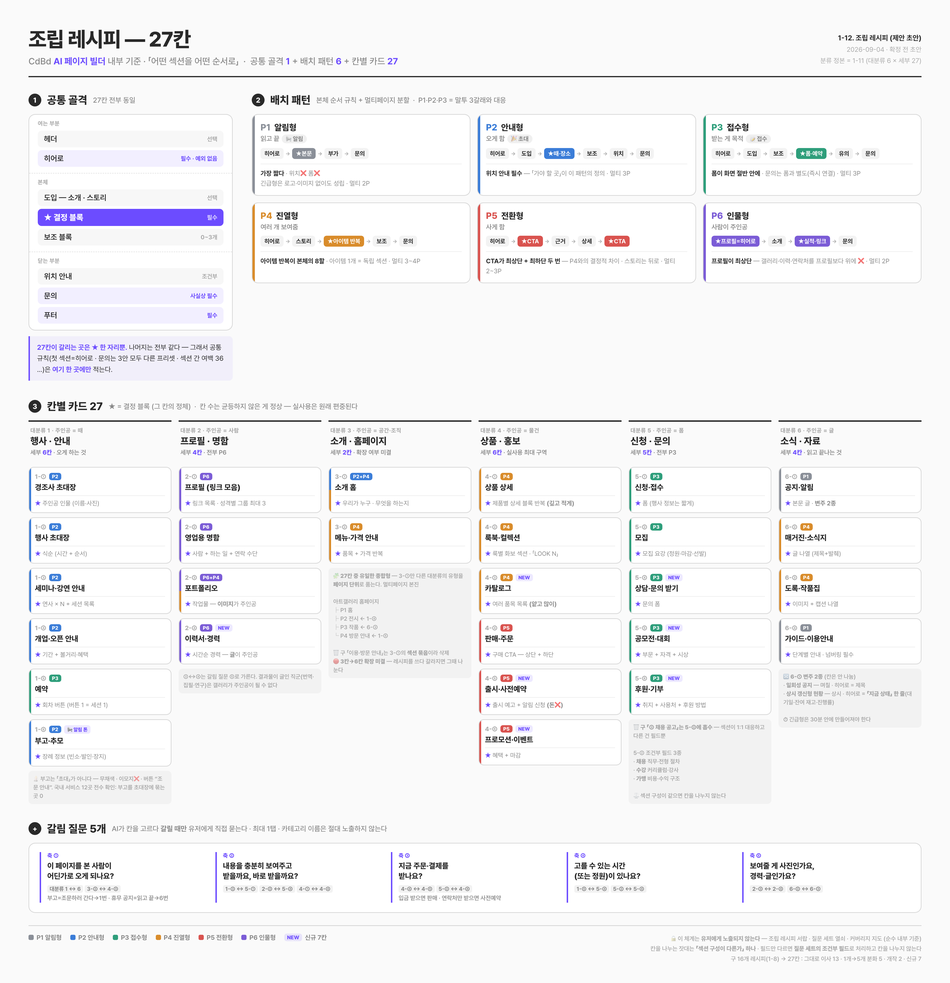
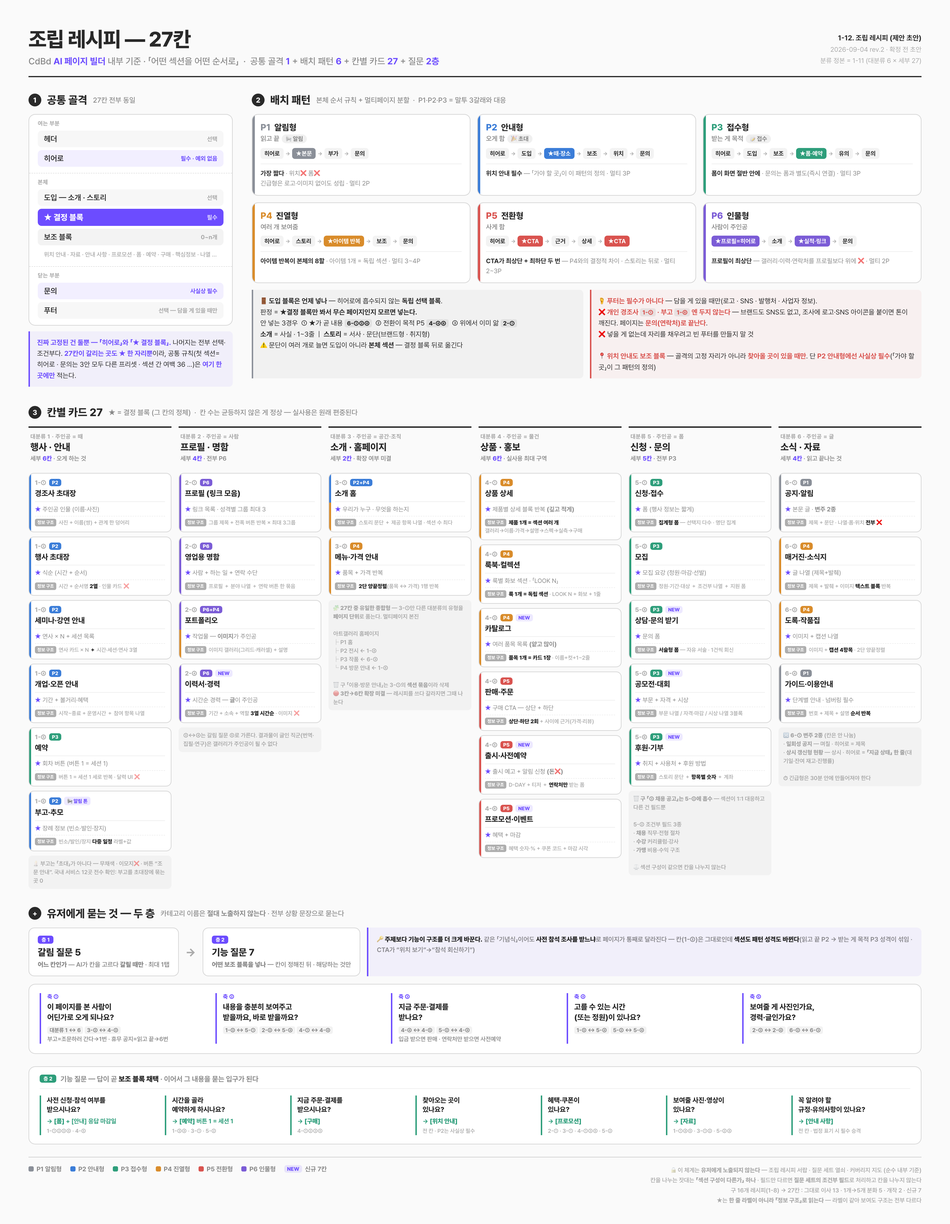
vault backup: 2026-09-04 11:03:52

diff --git a/1. 작업 가이드/.data/1-12-recipe-diagram.html b/1. 작업 가이드/.data/1-12-recipe-diagram.html
@@ -40,6 +40,8 @@ body{background:var(--bg);color:var(--ink);
 .sk-r .tag{font-size:12.5px;font-weight:700;color:var(--mut2)}
 .sk-r.req{background:rgba(108,76,255,.09)}
 .sk-r.req .tag{color:var(--acc)}
+.sk-r.sub{background:rgba(41,41,41,.055)}
+.subs{font-size:12.5px;color:var(--mut2);font-weight:600;line-height:1.5;padding:4px 13px 2px}
 .sk-r.star{background:var(--acc);color:#fff;font-weight:800;font-size:17px}
 .sk-r.star .tag{color:rgba(255,255,255,.8)}
 .callout{margin-top:12px;padding:12px 15px;border-left:3px solid var(--acc);
@@ -63,6 +65,8 @@ body{background:var(--bg);color:var(--ink);
 .pat-f{font-size:13.5px;color:var(--mut);line-height:1.55;border-top:1px solid var(--line);padding-top:9px}
 .pat-f b{color:var(--ink)}
 
+.rules2{display:grid;grid-template-columns:1fr 1fr;gap:14px}
+.callout code{background:rgba(41,41,41,.08);padding:1px 5px;border-radius:4px;font-family:inherit;font-weight:800;font-size:12.5px}
 /* ── row B : 27 cards ── */
 .cols{display:grid;grid-template-columns:repeat(6,1fr);gap:15px;margin-bottom:38px}
 .col-h{border-top:3px solid var(--ink);padding:11px 4px 12px;margin-bottom:11px}
@@ -83,6 +87,9 @@ body{background:var(--bg);color:var(--ink);
 .cd-t{font-size:16px;font-weight:800;line-height:1.3;margin-bottom:6px}
 .cd-b{font-size:13px;line-height:1.45;color:var(--mut);border-top:1px solid var(--line);padding-top:6px}
 .cd-b .st{color:var(--acc);font-weight:800}
+.cd-s{font-size:11.5px;line-height:1.45;color:var(--mut2);margin-top:5px;padding-top:5px;border-top:1px dashed var(--line);font-weight:600}
+.cd-s .lbl{display:inline-block;font-size:9.5px;font-weight:800;color:#fff;background:var(--mut2);padding:1px 5px;border-radius:4px;margin-right:5px;vertical-align:1px}
+.cd-s b{color:var(--ink)}
 .note{font-size:12px;color:var(--mut2);line-height:1.5;padding:8px 10px;
   background:rgba(41,41,41,.04);border-radius:8px;font-weight:600}
 
@@ -95,6 +102,26 @@ body{background:var(--bg);color:var(--ink);
 .q-d{font-size:12.5px;color:var(--mut);line-height:1.55;font-weight:600}
 .q-d code{background:rgba(41,41,41,.06);padding:1px 5px;border-radius:4px;font-size:11.5px;font-family:inherit;font-weight:700}
 
+
+.layers{display:flex;align-items:stretch;gap:14px;margin-bottom:16px}
+.ly{border:1.5px solid var(--line2);border-radius:12px;background:#fff;padding:13px 18px;min-width:280px}
+.ly-n{font-size:11px;font-weight:800;color:#fff;background:var(--acc);display:inline-block;padding:2px 8px;border-radius:5px;margin-bottom:6px}
+.ly-t{font-size:20px;font-weight:800;margin-bottom:4px}
+.ly-d{font-size:13.5px;color:var(--mut);font-weight:600;line-height:1.5}
+.ly-ar{display:flex;align-items:center;font-size:24px;color:var(--mut2);font-weight:800}
+.ly-note{flex:1;border-left:3px solid var(--acc);background:rgba(108,76,255,.06);border-radius:0 10px 10px 0;
+  padding:14px 18px;font-size:13.5px;line-height:1.65;color:var(--mut);font-weight:600}
+.ly-note b{color:var(--ink)}
+.qwrap.fn{padding:16px 22px 18px;margin-bottom:26px}
+.fn-h{font-size:15px;font-weight:700;color:var(--mut);margin-bottom:14px;padding-bottom:11px;border-bottom:1px solid var(--line)}
+.fn-h b{color:var(--ink)}
+.fn-b{display:inline-block;font-size:11px;font-weight:800;color:#fff;background:var(--p3);padding:2px 8px;border-radius:5px;margin-right:9px;vertical-align:2px}
+.fns{display:grid;grid-template-columns:repeat(7,1fr);gap:13px}
+.fq{border-left:3px solid var(--p3);padding-left:12px}
+.fq-t{font-size:14.5px;font-weight:800;line-height:1.35;margin-bottom:7px}
+.fq-s{font-size:13px;font-weight:700;color:var(--p3);margin-bottom:5px}
+.fq-s b{color:var(--p3)}
+.fq-c{font-size:11.5px;color:var(--mut2);font-weight:600;line-height:1.45}
 /* ── footer ── */
 .foot{display:flex;justify-content:space-between;align-items:flex-start;
   border-top:1.5px solid var(--line2);padding-top:16px;gap:40px}
@@ -107,9 +134,9 @@ body{background:var(--bg);color:var(--ink);
 <div class="top">
   <div>
     <div class="t1">조립 레시피 — 27칸</div>
-    <div class="t2">CdBd <b>AI 페이지 빌더</b> 내부 기준 · 「어떤 섹션을 어떤 순서로」 &nbsp;·&nbsp; 공통 골격 <b>1</b> + 배치 패턴 <b>6</b> + 칸별 카드 <b>27</b></div>
+    <div class="t2">CdBd <b>AI 페이지 빌더</b> 내부 기준 · 「어떤 섹션을 어떤 순서로」 &nbsp;·&nbsp; 공통 골격 <b>1</b> + 배치 패턴 <b>6</b> + 칸별 카드 <b>27</b> + 질문 <b>2층</b></div>
   </div>
-  <div class="meta"><b>1-12. 조립 레시피 (제안 초안)</b><br>2026-09-04 · 확정 전 초안<br>분류 정본 = 1-11 (대분류 6 × 세부 27)</div>
+  <div class="meta"><b>1-12. 조립 레시피 (제안 초안)</b><br>2026-09-04 rev.2 · 확정 전 초안<br>분류 정본 = 1-11 (대분류 6 × 세부 27)</div>
 </div>
 
 <div class="rowA">
@@ -123,14 +150,15 @@ body{background:var(--bg);color:var(--ink);
       <div class="sk-g"><div class="sk-gt">본체</div>
         <div class="sk-r">도입 — 소개 · 스토리<span class="tag">선택</span></div>
         <div class="sk-r star">★ 결정 블록<span class="tag">필수</span></div>
-        <div class="sk-r">보조 블록<span class="tag">0~3개</span></div></div>
+        <div class="sk-r sub">보조 블록<span class="tag">0~n개</span></div>
+        <div class="subs">위치 안내 · 자료 · 안내 사항 · 프로모션 · 폼 · 예약 · 구매 · 핵심정보 · 나열 …</div></div>
       <div class="sk-g"><div class="sk-gt">닫는 부분</div>
-        <div class="sk-r">위치 안내<span class="tag">조건부</span></div>
         <div class="sk-r req">문의<span class="tag">사실상 필수</span></div>
-        <div class="sk-r req">푸터<span class="tag">필수</span></div></div>
+        <div class="sk-r">푸터<span class="tag">선택 — 담을 게 있을 때만</span></div></div>
     </div>
-    <div class="callout"><b>27칸이 갈리는 곳은 ★ 한 자리뿐.</b> 나머지는 전부 같다 —
-      그래서 공통 규칙(첫 섹션=히어로 · 문의는 3안 모두 다른 프리셋 · 섹션 간 여백 36 …)은 <b>여기 한 곳에만</b> 적는다.</div>
+    <div class="callout"><b>진짜 고정된 건 둘뿐 — 「히어로」와 「★ 결정 블록」.</b>
+      나머지는 전부 선택·조건부다. <b>27칸이 갈리는 곳도 ★ 한 자리뿐</b>이라,
+      공통 규칙(첫 섹션=히어로 · 문의는 3안 모두 다른 프리셋 · 섹션 간 여백 36 …)은 <b>여기 한 곳에만</b> 적는다.</div>
   </div>
 
   <div>
@@ -168,6 +196,22 @@ body{background:var(--bg);color:var(--ink);
         <div class="flow"><span class="fx k">★프로필=히어로</span><span class="ar">→</span><span class="fx">소개</span><span class="ar">→</span><span class="fx k">★실적·링크</span><span class="ar">→</span><span class="fx">문의</span></div>
         <div class="pat-f"><b>프로필이 최상단</b> — 갤러리·이력·연락처를 프로필보다 위에 ❌ · 멀티 2P</div></div>
     </div>
+    <div class="rules2">
+      <div class="callout" style="margin-top:14px;border-color:#8A8F98;background:rgba(41,41,41,.045)">
+        <b style="color:#292929">🚪 도입 블록은 언제 넣나</b> — 히어로에 흡수되지 않는 <b style="color:#292929">독립 선택 블록</b>.<br>
+        판정 = <b style="color:#292929">★결정 블록만 봐서 무슨 페이지인지 모르면 넣는다.</b><br>
+        안 넣는 3경우 &nbsp;① ★가 곧 내용 <code>6-①②④</code> &nbsp;② 전환이 목적 P5 <code>4-④⑥</code> &nbsp;③ 위에서 이미 앎 <code>2-①</code><br>
+        <b style="color:#292929">소개</b> = 사실 · 1~3줄 &nbsp;|&nbsp; <b style="color:#292929">스토리</b> = 서사 · 문단(브랜드형 · 취지형)<br>
+        ⚠ 문단이 여러 개로 늘면 도입이 아니라 <b style="color:#292929">본체 섹션</b> — 결정 블록 뒤로 옮긴다</div>
+      <div class="callout" style="margin-top:14px;border-color:#D9534F;background:rgba(217,83,79,.06)">
+        <b style="color:#D9534F">🦶 푸터는 필수가 아니다</b> — 담을 게 있을 때만(로고 · SNS · 발행처 · 사업자 정보).<br>
+        ❌ <b style="color:#D9534F">개인 경조사 <code>1-①</code> · 부고 <code>1-⑥</code> 엔 두지 않는다</b> — 브랜드도 SNS도 없고,
+        조사에 로고·SNS 아이콘을 붙이면 톤이 깨진다. 페이지는 <b style="color:#D9534F">문의(연락처)로 끝난다</b>.<br>
+        ❌ 넣을 게 없는데 자리를 채우려고 빈 푸터를 만들지 말 것<br>
+        <br>
+        <b style="color:#D9534F">📍 위치 안내도 보조 블록</b> — 골격의 고정 자리가 아니라 <b style="color:#D9534F">찾아올 곳이 있을 때만</b>.
+        단 <b style="color:#D9534F">P2 안내형에선 사실상 필수</b>(「가야 할 곳」이 그 패턴의 정의)</div>
+    </div>
   </div>
 </div>
 
@@ -179,17 +223,17 @@ body{background:var(--bg);color:var(--ink);
     <div class="col-h"><div class="col-n">대분류 1 · 주인공 = 때</div><div class="col-t">행사 · 안내</div>
       <div class="col-s">세부 <span class="cnt">6칸</span> · 오게 하는 것</div></div>
     <div class="card" style="--c:var(--p2)"><div class="cd-h"><span class="cd-i">1-①</span><span class="cd-p">P2</span></div>
-      <div class="cd-t">경조사 초대장</div><div class="cd-b"><span class="st">★</span> 주인공 인물 (이름·사진)</div></div>
+      <div class="cd-t">경조사 초대장</div><div class="cd-b"><span class="st">★</span> 주인공 인물 (이름·사진)<div class="cd-s"><span class="lbl">정보 구조</span>사진 + 이름(쌍) + 관계 한 덩어리</div></div></div>
     <div class="card" style="--c:var(--p2)"><div class="cd-h"><span class="cd-i">1-②</span><span class="cd-p">P2</span></div>
-      <div class="cd-t">행사 초대장</div><div class="cd-b"><span class="st">★</span> 식순 (시간 + 순서)</div></div>
+      <div class="cd-t">행사 초대장</div><div class="cd-b"><span class="st">★</span> 식순 (시간 + 순서)<div class="cd-s"><span class="lbl">정보 구조</span>시간 + 순서명 <b>2열</b> · 인물 카드 ❌</div></div></div>
     <div class="card" style="--c:var(--p2)"><div class="cd-h"><span class="cd-i">1-③</span><span class="cd-p">P2</span></div>
-      <div class="cd-t">세미나·강연 안내</div><div class="cd-b"><span class="st">★</span> 연사 × N + 세션 목록</div></div>
+      <div class="cd-t">세미나·강연 안내</div><div class="cd-b"><span class="st">★</span> 연사 × N + 세션 목록<div class="cd-s"><span class="lbl">정보 구조</span>연사 카드 × N <b>＋</b> 시간·세션·연사 3열</div></div></div>
     <div class="card" style="--c:var(--p2)"><div class="cd-h"><span class="cd-i">1-④</span><span class="cd-p">P2</span></div>
-      <div class="cd-t">개업·오픈 안내</div><div class="cd-b"><span class="st">★</span> 기간 + 볼거리·혜택</div></div>
+      <div class="cd-t">개업·오픈 안내</div><div class="cd-b"><span class="st">★</span> 기간 + 볼거리·혜택<div class="cd-s"><span class="lbl">정보 구조</span>시작~종료 + 운영시간 ＋ 참여 항목 나열</div></div></div>
     <div class="card" style="--c:var(--p3)"><div class="cd-h"><span class="cd-i">1-⑤</span><span class="cd-p">P3</span></div>
-      <div class="cd-t">예약</div><div class="cd-b"><span class="st">★</span> 회차 버튼 (버튼 1 = 세션 1)</div></div>
+      <div class="cd-t">예약</div><div class="cd-b"><span class="st">★</span> 회차 버튼 (버튼 1 = 세션 1)<div class="cd-s"><span class="lbl">정보 구조</span>버튼 1 = 세션 1 세로 반복 · 달력 UI ❌</div></div></div>
     <div class="card" style="--c:var(--p2)"><div class="cd-h"><span class="cd-i">1-⑥</span><span class="cd-p">P2</span><span class="cd-new">📢 알림 톤</span></div>
-      <div class="cd-t">부고·추모</div><div class="cd-b"><span class="st">★</span> 장례 정보 (빈소·발인·장지)</div></div>
+      <div class="cd-t">부고·추모</div><div class="cd-b"><span class="st">★</span> 장례 정보 (빈소·발인·장지)<div class="cd-s"><span class="lbl">정보 구조</span>빈소/발인/장지 <b>다중 일정</b> 라벨+값</div></div></div>
     <div class="note">🕯 부고는 「초대」가 아니다 — 무채색 · 이모지❌ · 버튼 “조문 안내”. 국내 서비스 12곳 전수 확인: 부고를 초대장에 묶는 곳 0</div>
   </div>
 
@@ -197,13 +241,13 @@ body{background:var(--bg);color:var(--ink);
     <div class="col-h"><div class="col-n">대분류 2 · 주인공 = 사람</div><div class="col-t">프로필 · 명함</div>
       <div class="col-s">세부 <span class="cnt">4칸</span> · 전부 P6</div></div>
     <div class="card" style="--c:var(--p6)"><div class="cd-h"><span class="cd-i">2-①</span><span class="cd-p">P6</span></div>
-      <div class="cd-t">프로필 (링크 모음)</div><div class="cd-b"><span class="st">★</span> 링크 목록 · 성격별 그룹 최대 3</div></div>
+      <div class="cd-t">프로필 (링크 모음)</div><div class="cd-b"><span class="st">★</span> 링크 목록 · 성격별 그룹 최대 3<div class="cd-s"><span class="lbl">정보 구조</span>그룹 제목 + 전폭 버튼 반복 × 최대 3그룹</div></div></div>
     <div class="card" style="--c:var(--p6)"><div class="cd-h"><span class="cd-i">2-②</span><span class="cd-p">P6</span></div>
-      <div class="cd-t">영업용 명함</div><div class="cd-b"><span class="st">★</span> 사람 + 하는 일 + 연락 수단</div></div>
+      <div class="cd-t">영업용 명함</div><div class="cd-b"><span class="st">★</span> 사람 + 하는 일 + 연락 수단<div class="cd-s"><span class="lbl">정보 구조</span>프로필 ＋ 분야 나열 ＋ 연락 버튼 한 묶음</div></div></div>
     <div class="card dual" style="--c:var(--p6);--c2:var(--p4)"><div class="cd-h"><span class="cd-i">2-③</span><span class="cd-p">P6+P4</span></div>
-      <div class="cd-t">포트폴리오</div><div class="cd-b"><span class="st">★</span> 작업물 — <b>이미지</b>가 주인공</div></div>
+      <div class="cd-t">포트폴리오</div><div class="cd-b"><span class="st">★</span> 작업물 — <b>이미지</b>가 주인공<div class="cd-s"><span class="lbl">정보 구조</span>이미지 갤러리(그리드·캐러셀) + 설명</div></div></div>
     <div class="card" style="--c:var(--p6)"><div class="cd-h"><span class="cd-i">2-④</span><span class="cd-p">P6</span><span class="cd-new">NEW</span></div>
-      <div class="cd-t">이력서·경력</div><div class="cd-b"><span class="st">★</span> 시간순 경력 — <b>글</b>이 주인공</div></div>
+      <div class="cd-t">이력서·경력</div><div class="cd-b"><span class="st">★</span> 시간순 경력 — <b>글</b>이 주인공<div class="cd-s"><span class="lbl">정보 구조</span>기간 + 소속 + 역할 <b>3열 시간순</b> · 이미지 ❌</div></div></div>
     <div class="note">③↔④는 갈림 질문 ⑤로 가른다. 결과물이 글인 직군(번역·집필·연구)은 갤러리가 주인공이 될 수 없다</div>
   </div>
 
@@ -211,9 +255,9 @@ body{background:var(--bg);color:var(--ink);
     <div class="col-h"><div class="col-n">대분류 3 · 주인공 = 공간·조직</div><div class="col-t">소개 · 홈페이지</div>
       <div class="col-s">세부 <span class="cnt">2칸</span> · 확장 여부 미결</div></div>
     <div class="card dual" style="--c:var(--p2);--c2:var(--p4)"><div class="cd-h"><span class="cd-i">3-①</span><span class="cd-p">P2+P4</span></div>
-      <div class="cd-t">소개 홈</div><div class="cd-b"><span class="st">★</span> 우리가 누구 · 무엇을 하는지</div></div>
+      <div class="cd-t">소개 홈</div><div class="cd-b"><span class="st">★</span> 우리가 누구 · 무엇을 하는지<div class="cd-s"><span class="lbl">정보 구조</span>스토리 문단 ＋ 제공 항목 나열 · 섹션 수 최다</div></div></div>
     <div class="card" style="--c:var(--p4)"><div class="cd-h"><span class="cd-i">3-②</span><span class="cd-p">P4</span></div>
-      <div class="cd-t">메뉴·가격 안내</div><div class="cd-b"><span class="st">★</span> 품목 + 가격 반복</div></div>
+      <div class="cd-t">메뉴·가격 안내</div><div class="cd-b"><span class="st">★</span> 품목 + 가격 반복<div class="cd-s"><span class="lbl">정보 구조</span><b>2단 양끝정렬</b>(품목 ↔ 가격) 1행 반복</div></div></div>
     <div class="note">🧩 <b>27칸 중 유일한 종합형</b> — 3-①만 다른 대분류의 유형을 <b>페이지 단위</b>로 품는다. 멀티페이지 본진<br><br>
       아트갤러리 홈페이지<br>├ P1 홈<br>├ P2 전시 ← 1-④<br>├ P3 작품 ← 6-③<br>└ P4 방문 안내 ← 1-⑤<br><br>
       🗑 구 「이용·방문 안내」는 3-①의 <b>섹션 묶음</b>이라 삭제<br>
@@ -224,32 +268,32 @@ body{background:var(--bg);color:var(--ink);
     <div class="col-h"><div class="col-n">대분류 4 · 주인공 = 물건</div><div class="col-t">상품 · 홍보</div>
       <div class="col-s">세부 <span class="cnt">6칸</span> · 실사용 최대 구역</div></div>
     <div class="card" style="--c:var(--p4)"><div class="cd-h"><span class="cd-i">4-①</span><span class="cd-p">P4</span></div>
-      <div class="cd-t">상품 상세</div><div class="cd-b"><span class="st">★</span> 제품별 상세 블록 반복 <b>(깊고 적게)</b></div></div>
+      <div class="cd-t">상품 상세</div><div class="cd-b"><span class="st">★</span> 제품별 상세 블록 반복 <b>(깊고 적게)</b><div class="cd-s"><span class="lbl">정보 구조</span><b>제품 1개 = 섹션 여러 개</b><br>갤러리→이름·가격→설명→스펙→실측→구매</div></div></div>
     <div class="card" style="--c:var(--p4)"><div class="cd-h"><span class="cd-i">4-②</span><span class="cd-p">P4</span></div>
-      <div class="cd-t">룩북·컬렉션</div><div class="cd-b"><span class="st">★</span> 룩별 화보 섹션 · 「LOOK N」</div></div>
+      <div class="cd-t">룩북·컬렉션</div><div class="cd-b"><span class="st">★</span> 룩별 화보 섹션 · 「LOOK N」<div class="cd-s"><span class="lbl">정보 구조</span><b>룩 1개 = 독립 섹션</b> · LOOK N + 화보 + 1줄</div></div></div>
     <div class="card" style="--c:var(--p4)"><div class="cd-h"><span class="cd-i">4-③</span><span class="cd-p">P4</span><span class="cd-new">NEW</span></div>
-      <div class="cd-t">카탈로그</div><div class="cd-b"><span class="st">★</span> 여러 품목 목록 <b>(얕고 많이)</b></div></div>
+      <div class="cd-t">카탈로그</div><div class="cd-b"><span class="st">★</span> 여러 품목 목록 <b>(얕고 많이)</b><div class="cd-s"><span class="lbl">정보 구조</span><b>품목 1개 = 카드 1장</b> · 이름+컷+1~2줄</div></div></div>
     <div class="card" style="--c:var(--p5)"><div class="cd-h"><span class="cd-i">4-④</span><span class="cd-p">P5</span></div>
-      <div class="cd-t">판매·주문</div><div class="cd-b"><span class="st">★</span> 구매 CTA — 상단 + 하단</div></div>
+      <div class="cd-t">판매·주문</div><div class="cd-b"><span class="st">★</span> 구매 CTA — 상단 + 하단<div class="cd-s"><span class="lbl">정보 구조</span><b>상단·하단 2회</b> + 사이에 근거(가격·리뷰)</div></div></div>
     <div class="card" style="--c:var(--p5)"><div class="cd-h"><span class="cd-i">4-⑤</span><span class="cd-p">P5</span><span class="cd-new">NEW</span></div>
-      <div class="cd-t">출시·사전예약</div><div class="cd-b"><span class="st">★</span> 출시 예고 + 알림 신청 <b>(돈❌)</b></div></div>
+      <div class="cd-t">출시·사전예약</div><div class="cd-b"><span class="st">★</span> 출시 예고 + 알림 신청 <b>(돈❌)</b><div class="cd-s"><span class="lbl">정보 구조</span>D-DAY + 티저 ＋ <b>연락처만</b> 받는 폼</div></div></div>
     <div class="card" style="--c:var(--p5)"><div class="cd-h"><span class="cd-i">4-⑥</span><span class="cd-p">P5</span><span class="cd-new">NEW</span></div>
-      <div class="cd-t">프로모션·이벤트</div><div class="cd-b"><span class="st">★</span> 혜택 + 마감</div></div>
+      <div class="cd-t">프로모션·이벤트</div><div class="cd-b"><span class="st">★</span> 혜택 + 마감<div class="cd-s"><span class="lbl">정보 구조</span>혜택 숫자·% + 쿠폰 코드 + 마감 시각</div></div></div>
   </div>
 
   <div>
     <div class="col-h"><div class="col-n">대분류 5 · 주인공 = 폼</div><div class="col-t">신청 · 문의</div>
       <div class="col-s">세부 <span class="cnt">5칸</span> · 전부 P3</div></div>
     <div class="card" style="--c:var(--p3)"><div class="cd-h"><span class="cd-i">5-①</span><span class="cd-p">P3</span></div>
-      <div class="cd-t">신청·접수</div><div class="cd-b"><span class="st">★</span> 폼 (행사 정보는 짧게)</div></div>
+      <div class="cd-t">신청·접수</div><div class="cd-b"><span class="st">★</span> 폼 (행사 정보는 짧게)<div class="cd-s"><span class="lbl">정보 구조</span><b>집계형 폼</b> — 선택지 다수 · 명단 집계</div></div></div>
     <div class="card" style="--c:var(--p3)"><div class="cd-h"><span class="cd-i">5-②</span><span class="cd-p">P3</span></div>
-      <div class="cd-t">모집</div><div class="cd-b"><span class="st">★</span> 모집 요강 (정원·마감·선발)</div></div>
+      <div class="cd-t">모집</div><div class="cd-b"><span class="st">★</span> 모집 요강 (정원·마감·선발)<div class="cd-s"><span class="lbl">정보 구조</span>정원·기간·대상 ＋ 조건부 나열 ＋ 지원 폼</div></div></div>
     <div class="card" style="--c:var(--p3)"><div class="cd-h"><span class="cd-i">5-④</span><span class="cd-p">P3</span><span class="cd-new">NEW</span></div>
-      <div class="cd-t">상담·문의 받기</div><div class="cd-b"><span class="st">★</span> 문의 폼</div></div>
+      <div class="cd-t">상담·문의 받기</div><div class="cd-b"><span class="st">★</span> 문의 폼<div class="cd-s"><span class="lbl">정보 구조</span><b>서술형 폼</b> — 자유 서술 · 1건씩 회신</div></div></div>
     <div class="card" style="--c:var(--p3)"><div class="cd-h"><span class="cd-i">5-⑤</span><span class="cd-p">P3</span><span class="cd-new">NEW</span></div>
-      <div class="cd-t">공모전·대회</div><div class="cd-b"><span class="st">★</span> 부문 + 자격 + 시상</div></div>
+      <div class="cd-t">공모전·대회</div><div class="cd-b"><span class="st">★</span> 부문 + 자격 + 시상<div class="cd-s"><span class="lbl">정보 구조</span>부문 나열 / 자격·마감 / 시상 나열 3블록</div></div></div>
     <div class="card" style="--c:var(--p3)"><div class="cd-h"><span class="cd-i">5-⑥</span><span class="cd-p">P3</span><span class="cd-new">NEW</span></div>
-      <div class="cd-t">후원·기부</div><div class="cd-b"><span class="st">★</span> 취지 + 사용처 + 후원 방법</div></div>
+      <div class="cd-t">후원·기부</div><div class="cd-b"><span class="st">★</span> 취지 + 사용처 + 후원 방법<div class="cd-s"><span class="lbl">정보 구조</span>스토리 문단 ＋ <b>항목별 숫자</b> ＋ 계좌</div></div></div>
     <div class="note">🗑 <b>구 「③ 채용 공고」는 5-②에 흡수</b> — 섹션이 1:1 대응하고 다른 건 필드뿐<br><br>
       5-② 조건부 필드 3종<br>· <b>채용</b> 직무·전형 절차<br>· <b>수강</b> 커리큘럼·강사<br>· <b>가맹</b> 비용·수익 구조<br><br>
       ⚖ 섹션 구성이 같으면 칸을 나누지 않는다</div>
@@ -259,13 +303,13 @@ body{background:var(--bg);color:var(--ink);
     <div class="col-h"><div class="col-n">대분류 6 · 주인공 = 글</div><div class="col-t">소식 · 자료</div>
       <div class="col-s">세부 <span class="cnt">4칸</span> · 읽고 끝나는 것</div></div>
     <div class="card" style="--c:var(--p1)"><div class="cd-h"><span class="cd-i">6-①</span><span class="cd-p">P1</span></div>
-      <div class="cd-t">공지·알림</div><div class="cd-b"><span class="st">★</span> 본문 글 · <b>변주 2종</b></div></div>
+      <div class="cd-t">공지·알림</div><div class="cd-b"><span class="st">★</span> 본문 글 · <b>변주 2종</b><div class="cd-s"><span class="lbl">정보 구조</span>제목 + 문단 · 나열·폼·위치 <b>전부 ❌</b></div></div></div>
     <div class="card" style="--c:var(--p4)"><div class="cd-h"><span class="cd-i">6-②</span><span class="cd-p">P4</span></div>
-      <div class="cd-t">매거진·소식지</div><div class="cd-b"><span class="st">★</span> 글 나열 (제목+발췌)</div></div>
+      <div class="cd-t">매거진·소식지</div><div class="cd-b"><span class="st">★</span> 글 나열 (제목+발췌)<div class="cd-s"><span class="lbl">정보 구조</span>제목 + 발췌 + 이미지 <b>텍스트 블록</b> 반복</div></div></div>
     <div class="card" style="--c:var(--p4)"><div class="cd-h"><span class="cd-i">6-③</span><span class="cd-p">P4</span></div>
-      <div class="cd-t">도록·작품집</div><div class="cd-b"><span class="st">★</span> 이미지 + 캡션 나열</div></div>
+      <div class="cd-t">도록·작품집</div><div class="cd-b"><span class="st">★</span> 이미지 + 캡션 나열<div class="cd-s"><span class="lbl">정보 구조</span>이미지 + <b>캡션 4항목</b> · 2단 양끝정렬</div></div></div>
     <div class="card" style="--c:var(--p1)"><div class="cd-h"><span class="cd-i">6-④</span><span class="cd-p">P1</span></div>
-      <div class="cd-t">가이드·이용안내</div><div class="cd-b"><span class="st">★</span> 단계별 안내 · 넘버링 필수</div></div>
+      <div class="cd-t">가이드·이용안내</div><div class="cd-b"><span class="st">★</span> 단계별 안내 · 넘버링 필수<div class="cd-s"><span class="lbl">정보 구조</span>번호 + 제목 + 설명 <b>순서 반복</b></div></div></div>
     <div class="note">🔀 <b>6-① 변주 2종</b> (칸은 안 나눔)<br>
       · <b>일회성 공지</b> — 며칠 · 히어로 = 제목<br>
       · <b>상시 갱신형 현황</b> — 상시 · 히어로 = <b>「지금 상태」 한 줄</b>(대기일·잔여 재고·진행률)<br><br>
@@ -273,8 +317,17 @@ body{background:var(--bg);color:var(--ink);
   </div>
 </div>
 
-<div class="sec-h"><div class="sec-n">+</div><div><div class="sec-t">갈림 질문 5개</div></div>
-  <div class="sec-d">AI가 칸을 고르다 <b>갈릴 때만</b> 유저에게 직접 묻는다 · 최대 1탭 · 카테고리 이름은 절대 노출하지 않는다</div></div>
+<div class="sec-h"><div class="sec-n">+</div><div><div class="sec-t">유저에게 묻는 것 — 두 층</div></div>
+  <div class="sec-d">카테고리 이름은 <b>절대 노출하지 않는다</b> · 전부 상황 문장으로 묻는다</div></div>
+<div class="layers">
+  <div class="ly"><div class="ly-n">층 1</div><div class="ly-t">갈림 질문 5</div>
+    <div class="ly-d"><b>어느 칸인가</b> — AI가 칸을 고르다 <b>갈릴 때만</b> · 최대 1탭</div></div>
+  <div class="ly-ar">→</div>
+  <div class="ly"><div class="ly-n">층 2</div><div class="ly-t">기능 질문 7</div>
+    <div class="ly-d"><b>어떤 보조 블록을 넣나</b> — 칸이 정해진 뒤 · 해당하는 것만</div></div>
+  <div class="ly-note">🔑 <b>주제보다 기능이 구조를 더 크게 바꾼다.</b> 같은 「기념식」이어도 <b>사전 참석 조사를 받느냐</b>로 페이지가 통째로 달라진다 —
+    칸(1-②)은 그대로인데 <b>섹션도 패턴 성격도 바뀐다</b>(읽고 끝 P2 → 받는 게 목적 P3 성격이 섞임 · CTA가 “위치 보기”→“참석 회신하기”)</div>
+</div>
 <div class="qwrap"><div class="qs">
   <div class="q"><div class="q-n">축 ①</div><div class="q-t">이 페이지를 본 사람이<br>어딘가로 오게 되나요?</div>
     <div class="q-d"><code>대분류 1 ↔ 6</code> <code>3-② ↔ 4-③</code><br>부고=조문하러 간다→1번 · 휴무 공지=읽고 끝→6번</div></div>
@@ -286,6 +339,17 @@ body{background:var(--bg);color:var(--ink);
     <div class="q-d"><code>1-⑤ ↔ 5-④</code> <code>5-② ↔ 5-④</code></div></div>
   <div class="q"><div class="q-n">축 ⑤</div><div class="q-t">보여줄 게 사진인가요,<br>경력·글인가요?</div>
     <div class="q-d"><code>2-③ ↔ 2-④</code> <code>6-② ↔ 6-③</code></div></div>
+</div></div>
+
+<div class="qwrap fn"><div class="fn-h"><span class="fn-b">층 2</span>기능 질문 — 답이 곧 <b>보조 블록 채택</b> · 이어서 그 내용을 묻는 입구가 된다</div>
+<div class="fns">
+  <div class="fq"><div class="fq-t">사전 신청·참석 여부를<br>받으시나요?</div><div class="fq-s">→ <b>[폼]</b> + [안내] 응답 마감일</div><div class="fq-c">1-①②③④ · 4-⑤</div></div>
+  <div class="fq"><div class="fq-t">시간을 골라<br>예약하게 하시나요?</div><div class="fq-s">→ <b>[예약]</b> 버튼 1 = 세션 1</div><div class="fq-c">1-③④ · 3-① · 5-②</div></div>
+  <div class="fq"><div class="fq-t">지금 주문·결제를<br>받으시나요?</div><div class="fq-s">→ <b>[구매]</b></div><div class="fq-c">4-①②③⑤</div></div>
+  <div class="fq"><div class="fq-t">찾아오는 곳이<br>있나요?</div><div class="fq-s">→ <b>[위치 안내]</b></div><div class="fq-c">전 칸 · P2는 사실상 필수</div></div>
+  <div class="fq"><div class="fq-t">혜택·쿠폰이<br>있나요?</div><div class="fq-s">→ <b>[프로모션]</b></div><div class="fq-c">2-① · 3-① · 4-①③⑤ · 5-②</div></div>
+  <div class="fq"><div class="fq-t">보여줄 사진·영상이<br>있나요?</div><div class="fq-s">→ <b>[자료]</b></div><div class="fq-c">1-①④⑤ · 3-①② · 5-②④</div></div>
+  <div class="fq"><div class="fq-t">꼭 알려야 할<br>규정·유의사항이 있나요?</div><div class="fq-s">→ <b>[안내 사항]</b></div><div class="fq-c">전 칸 · 법정 표기 시 필수 승격</div></div>
 </div></div>
 
 <div class="foot">
@@ -303,7 +367,7 @@ body{background:var(--bg);color:var(--ink);
   <div class="fnote">
     🔒 이 체계는 <b>유저에게 노출되지 않는다</b> — 조립 레시피 서랍 · 질문 세트 열쇠 · 커버리지 지도 (순수 내부 기준)<br>
     칸을 나누는 잣대는 <b>「섹션 구성이 다른가」 하나</b> · 필드만 다르면 <b>질문 세트의 조건부 필드</b>로 처리하고 칸을 나누지 않는다<br>
-    구 16개 레시피(1-8) → 27칸 : 그대로 이사 13 · 1개→5개 분화 5 · 개작 2 · 신규 7
+    구 16개 레시피(1-8) → 27칸 : 그대로 이사 13 · 1개→5개 분화 5 · 개작 2 · 신규 7<br>★는 <b>한 줄 라벨이 아니라 「정보 구조」로 읽는다</b> — 라벨이 같아 보여도 구조는 전부 다르다
   </div>
 </div>
 </body></html>
